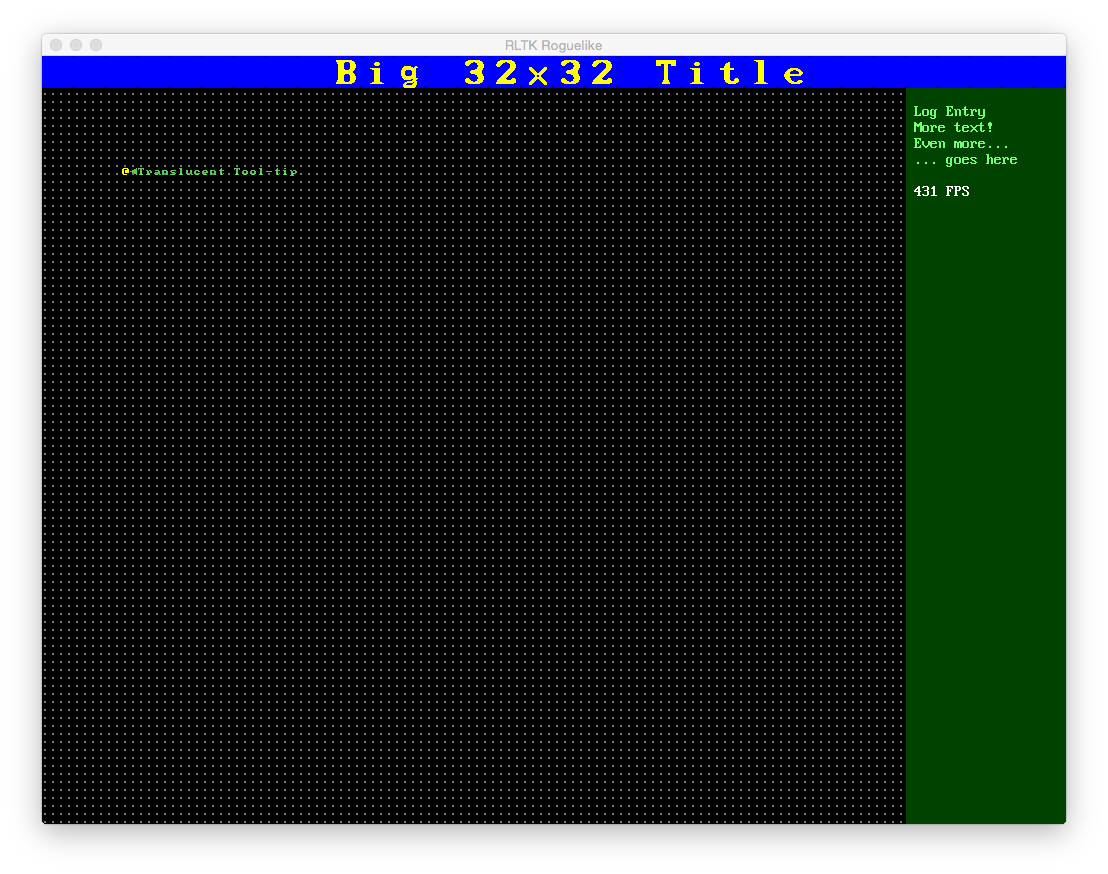
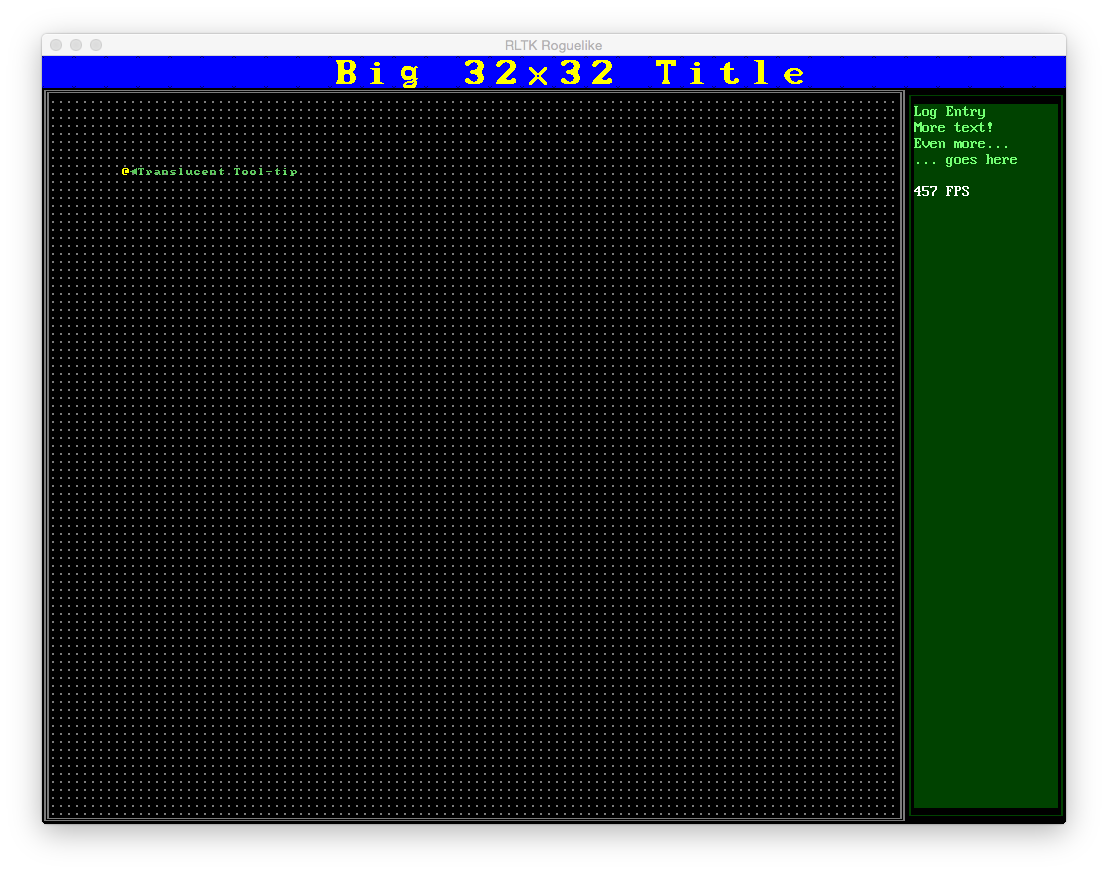
Add box drawing functions. Update example 7 to use it. Fix a render-order sort bug.

Changed region(s): [[0.7978, 0.0927, 0.9819, 0.9577], [0.0307, 0.0927, 0.0614, 0.9268]]

diff --git a/rltk/virtual_terminal.cpp b/rltk/virtual_terminal.cpp
@@ -2,6 +2,7 @@
 #include "texture_resources.hpp"
 #include <algorithm>
 #include <stdexcept>
+#include <iostream>
 
 namespace rltk {
 
@@ -12,7 +13,7 @@ void virtual_terminal::resize_pixels(const int width, const int height) {
 }
 
 void virtual_terminal::resize_chars(const int width, const int height) {
-	const int num_chars = width*height;
+	const int num_chars = width*(height+1);
 	buffer.resize(num_chars);
 	term_width = width;
 	term_height = height;
@@ -55,9 +56,6 @@ void virtual_terminal::resize_chars(const int width, const int height) {
 			}
 		}
 	} else {
-		const int font_width = font->character_size.first;
-		const int font_height = font->character_size.second;
-
 		for (int y=0; y<height; ++y) {
 			for (int x=0; x<width; ++x) {
 				const int idx = ((y*width) + x)*4;
@@ -79,6 +77,7 @@ void virtual_terminal::clear(const vchar &target) {
 }
 
 void virtual_terminal::set_char(const int idx, const vchar &target) {
+	if (idx < 0 or idx > buffer.size()) throw std::runtime_error("Out of screen range");
 	buffer[idx] = target;
 }
 
@@ -94,6 +93,41 @@ void virtual_terminal::print_center(const int y, const std::string &s, const col
 	print((term_width/2) - (s.size()/2), y, s, fg, bg);
 }
 
+void virtual_terminal::box(const int x, const int y, const int w, const int h, const color_t &fg, const color_t &bg, bool double_lines) {
+	//std::cout << h << "\n";
+	for (int i=1; i<w; ++i) {
+		if (!double_lines) {
+			set_char(x+i, y, vchar{196, fg, bg});
+			set_char(x+i, y+h, vchar{196, fg, bg});
+		} else {
+			set_char(x+i, y, vchar{205, fg, bg});
+			set_char(x+i, y+h, vchar{205, fg, bg});
+		}
+	}
+	
+	for (int i=1; i<h; ++i) {
+		if (!double_lines) {
+			set_char(x, y+i, vchar{179, fg, bg});
+			set_char(x+w, y+i, vchar{179, fg, bg});
+		} else {
+			set_char(x, y+i, vchar{186, fg, bg});
+			set_char(x+w, y+i, vchar{186, fg, bg});
+		}
+	}
+	
+	if (!double_lines) {
+		set_char(x,y, vchar{218, fg, bg});
+		set_char(x+w, y, vchar{191, fg, bg});
+		set_char(x, y+h, vchar{192, fg, bg});
+		set_char(x+w, y+h, vchar{217, fg, bg});
+	} else {
+		set_char(x,y, vchar{201, fg, bg});
+		set_char(x+w, y, vchar{187, fg, bg});
+		set_char(x, y+h, vchar{200, fg, bg});
+		set_char(x+w, y+h, vchar{188, fg, bg});
+	}
+}
+
 void virtual_terminal::render(sf::RenderWindow &window) {
 	if (!visible) return;
 
@@ -105,8 +139,6 @@ void virtual_terminal::render(sf::RenderWindow &window) {
 	}
 	const int font_width = font->character_size.first;
 	const int font_height = font->character_size.second;
-
-	backing.clear();
 
 	int vertex_idx = term_height * term_width * 4;
 	if (!has_background) vertex_idx = 0;

diff --git a/examples/ex7/main.cpp b/examples/ex7/main.cpp
@@ -29,8 +29,10 @@ void tick(double duration_ms) {
 	term(TITLE_LAYER)->clear(vchar{' ', YELLOW, BLUE});
 	term(TITLE_LAYER)->print_center(0, "Big 32x32 Title", YELLOW, BLUE);
 	term(MAIN_LAYER)->clear(vchar{'.', GREY, BLACK});
+	term(MAIN_LAYER)->box(GREY, BLACK, true);
 	term(MAIN_LAYER)->set_char(10, 10, vchar{'@', YELLOW, BLACK});
 	term(LOG_LAYER)->clear(vchar{' ', WHITE, DARKEST_GREEN});
+	term(LOG_LAYER)->box(DARKEST_GREEN, BLACK);
 	term(LOG_LAYER)->print(1,1, "Log Entry", LIGHT_GREEN, DARKEST_GREEN);
 	term(LOG_LAYER)->print(1,2, "More text!", LIGHT_GREEN, DARKEST_GREEN);
 	term(LOG_LAYER)->print(1,3, "Even more...", LIGHT_GREEN, DARKEST_GREEN);
@@ -83,9 +85,9 @@ int main()
 	init(config_advanced("../assets"));
 
 	gui->add_layer(TITLE_LAYER, 0, 0, 1024, 32, "32x32", resize_title);
-	gui->add_layer(MAIN_LAYER, 0, 32, 864, 768-16, "8x8", resize_main);
-	gui->add_layer(LOG_LAYER, 864, 32, 160, 768-16, "8x16", resize_log);
-	gui->add_layer(OVERLAY_LAYER, 0, 32, 864, 768-16, "8x8", resize_main); // We re-use resize_main, we want it over the top
+	gui->add_layer(MAIN_LAYER, 0, 32, 1024-160, 768-32, "8x8", resize_main);
+	gui->add_layer(LOG_LAYER, 864, 32, 160, 768-32, "8x16", resize_log);
+	gui->add_layer(OVERLAY_LAYER, 0, 32, 1024-160, 768-32, "8x8", resize_main); // We re-use resize_main, we want it over the top
 	term(OVERLAY_LAYER)->set_alpha(196); // Make the overlay translucent
 
 	run(tick);

diff --git a/rltk/virtual_terminal.hpp b/rltk/virtual_terminal.hpp
@@ -36,6 +36,10 @@ public:
 	inline void set_char(const int x, const int y, vchar target) { set_char(at(x,y), target); }
 	void print(const int x, const int y, const std::string &s, const color_t &fg, const color_t &bg);
 	void print_center(const int y, const std::string &s, const color_t &fg, const color_t &bg);
+	inline void box(const color_t &fg, const color_t &bg, bool double_lines=false) {
+		box (0, 0, term_width-1, term_height-1, fg, bg, double_lines);
+	}
+	void box(const int x, const int y, const int w, const int h, const color_t &fg, const color_t &bg, bool double_lines=false);
 
 	void render(sf::RenderWindow &window);
 

diff --git a/rltk/gui.cpp b/rltk/gui.cpp
@@ -40,7 +40,7 @@ void gui_t::add_layer(const int handle, const int X, const int Y, const int W, c
 	std::sort(gui_detail::render_order.begin(), gui_detail::render_order.end(), 
 		[] (std::pair<int, layer_t *> a, std::pair<int, layer_t *> b) 
 		{
-		return a.first > b.first;
+		return a.first < b.first;
 		}
 	);
 }
